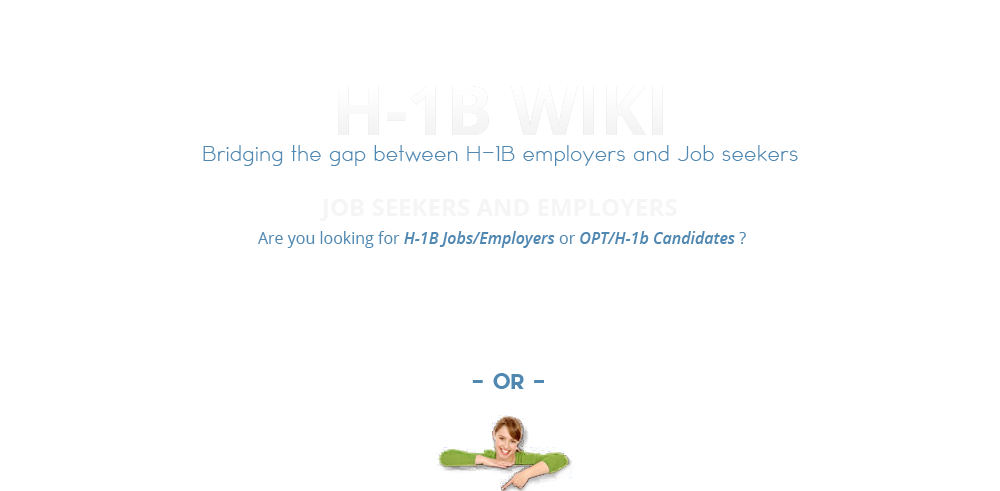
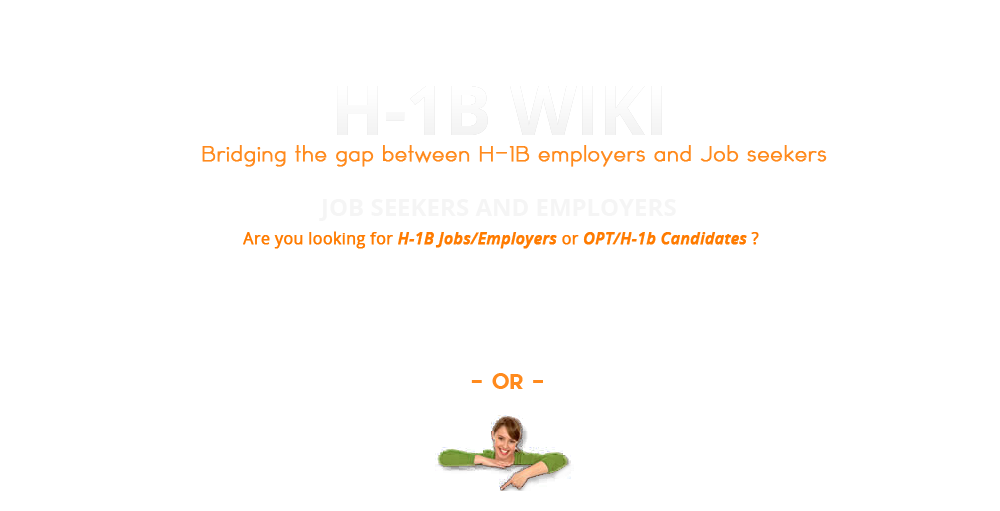
complete for the home page

Changed region(s): [[0.186, 0.2749, 0.837, 0.336], [0.248, 0.4277, 0.775, 0.5193], [0.434, 0.7332, 0.589, 1.0]]

diff --git a/app/assets/stylesheets/bootstrap_and_overrides.css.less b/app/assets/stylesheets/bootstrap_and_overrides.css.less
@@ -621,10 +621,10 @@ div.post-main-page{
         padding-top: 10px;
         width: 120px;
         a{
-          color: #888;
+          color: #fff;
         }
         a:hover{
-          color:black;
+          color: #f38e2f;
           background: transparent;
           text-decoration: none;
           cursor: pointer;
@@ -632,8 +632,10 @@ div.post-main-page{
       }
       li.current-tab{
         a{
-          color: white;
+          color: #f38e2f;
           font-size:20px;
+          font-weight: 600;
+          font-style: italic;
         }
       }
       li.current-tab:before {

diff --git a/app/assets/stylesheets/footer.css.scss b/app/assets/stylesheets/footer.css.scss
@@ -16,7 +16,7 @@
 		margin: 0 auto;
 	}
 	.footer-first-row{
-		height: 240px;
+		height: 480px;
 		background-color: #232728;
 		.content{
 			height: 264px;
@@ -27,8 +27,25 @@
 				}
 				p{
 					color: #898989;
+					margin-bottom: 0px;
 					span{
 						color: white;
+					}
+				}
+				label.orange{
+					color: #ef831e;
+				}
+				.face-boook-content{
+					height: 250px;
+					border: solid 1px #eeeff4; 
+					margin-top: 13px;
+					.head{
+						background-color: #eeeff4;
+						padding:5px;
+						label{
+							color: black;
+							margin-bottom: 0px;
+						}
 					}
 				}
 			}
